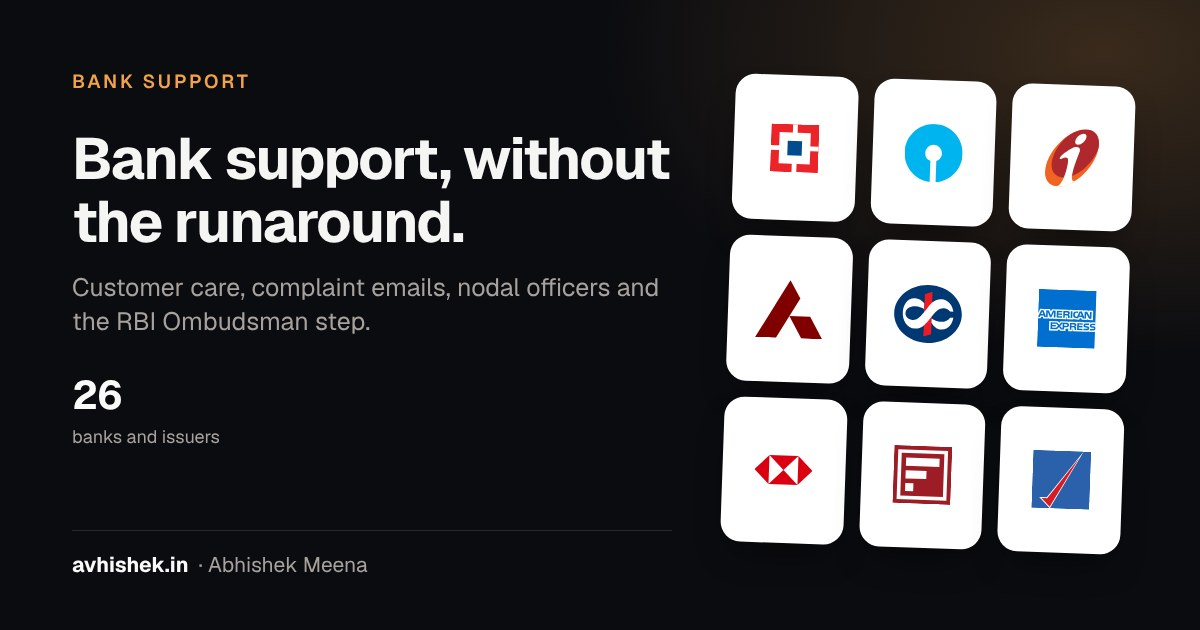
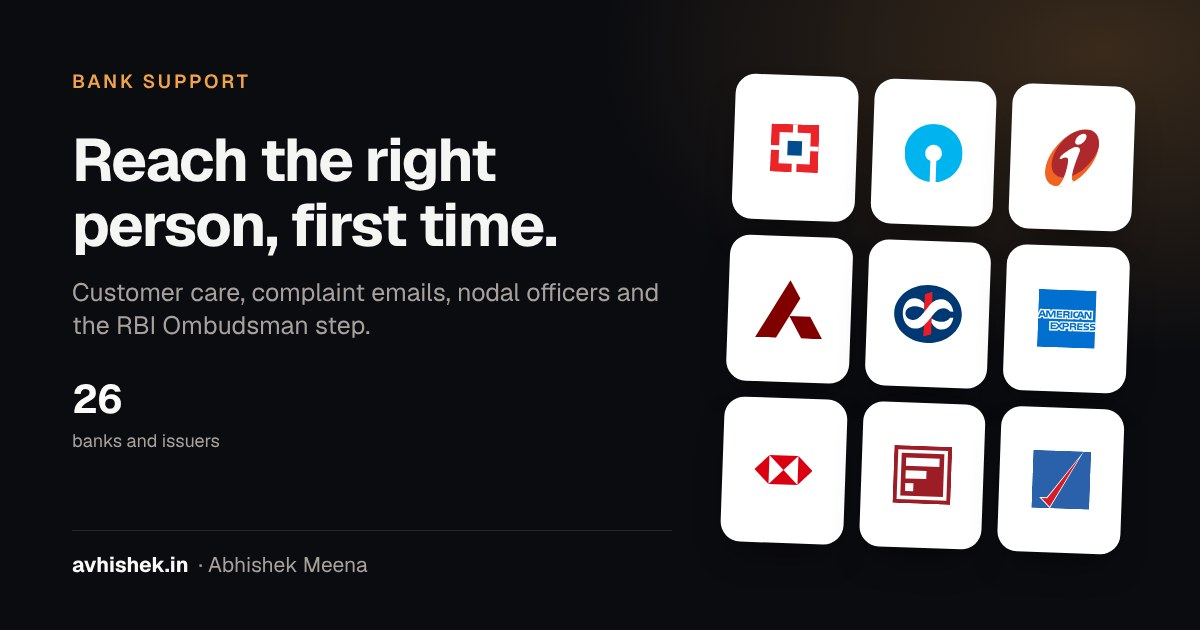
Bank support: new headline "Reach the right person, first time." (#168)
* Bank support: new headline "Reach the right person, first time."

Hero h1 and the link-preview image; preview image cache version bumped.

Claude-Session: https://claude.ai/code/session_01Sx266Y4c6DnSBbsBUthLvr

* Bank support: smaller date pill on phones

Shorter text ("Checked on 12 Nov 2026") and smaller size at <=640px.

Claude-Session: https://claude.ai/code/session_01Sx266Y4c6DnSBbsBUthLvr

---------

Changed region(s): [[0.0617, 0.2111, 0.555, 0.5429], [0.0617, 0.6032, 0.185, 0.7238]]

diff --git a/support.html b/support.html
@@ -18,7 +18,7 @@
   <meta property="og:title" content="Credit Card Customer Care &amp; Escalation Directory — 26 Indian Banks | Abhishek">
   <meta property="og:description" content="Customer care numbers and complaint emails for 26 Indian credit card issuers, with nodal and principal nodal officer contacts and the RBI Ombudsman step.">
   <meta property="og:url" content="https://avhishek.in/bank-support">
-  <meta property="og:image" content="https://avhishek.in/assets/og/bank-support.jpg?v=2">
+  <meta property="og:image" content="https://avhishek.in/assets/og/bank-support.jpg?v=3">
   <meta property="og:image:width" content="1200">
   <meta property="og:image:height" content="630">
   <meta property="og:image:alt" content="Bank support: customer care, complaint and nodal officer contacts for 26 Indian banks">
@@ -28,7 +28,7 @@
   <meta name="twitter:creator" content="@the_avhishek">
   <meta name="twitter:title" content="Credit Card Customer Care &amp; Escalation Directory — 26 Indian Banks | Abhishek">
   <meta name="twitter:description" content="Customer care numbers and complaint emails for 26 Indian credit card issuers, with nodal and principal nodal officer contacts and the RBI Ombudsman step.">
-  <meta name="twitter:image" content="https://avhishek.in/assets/og/bank-support.jpg?v=2">
+  <meta name="twitter:image" content="https://avhishek.in/assets/og/bank-support.jpg?v=3">
   <meta name="twitter:image:alt" content="Bank support: customer care, complaint and nodal officer contacts for 26 Indian banks">
   <script type="application/ld+json">
   {
@@ -115,7 +115,7 @@
   <link rel="stylesheet" href="assets/ui.css?v=1">
   <link rel="stylesheet" href="assets/backdrop.css?v=9">
   <link rel="stylesheet" href="assets/header.css?v=9">
-  <link rel="stylesheet" href="assets/support-page.css?v=6">
+  <link rel="stylesheet" href="assets/support-page.css?v=7">
   <link rel="stylesheet" href="assets/arc-tabs.css?v=5">
   <link rel="stylesheet" href="assets/polish.css?v=4">
   <link rel="stylesheet" href="assets/motion.css?v=5">
@@ -162,8 +162,8 @@
   <main id="support" class="sp" tabindex="-1">
     <section class="sp-hero" aria-labelledby="support-headline">
       <div class="sp-hero-copy">
-        <p class="sp-verified sp-date-pill"><span class="sp-date-pill-label">Updated</span><span class="sp-date-pill-text">Checked against bank websites on <time datetime="2026-11-12">12 Nov 2026</time></span></p>
-        <h1 id="support-headline" class="sp-title"><span class="sp-title-ink">Bank support,</span> <span class="sp-title-foil">without the runaround.</span></h1>
+        <p class="sp-verified sp-date-pill"><span class="sp-date-pill-label">Updated</span><span class="sp-date-pill-text">Checked<span class="sp-date-pill-long"> against bank websites</span> on <time datetime="2026-11-12">12 Nov 2026</time></span></p>
+        <h1 id="support-headline" class="sp-title"><span class="sp-title-ink">Reach the right person,</span> <span class="sp-title-foil">first time.</span></h1>
         <p class="sp-lead">Helplines and complaint emails for 26 credit card issuers in India, in the order you should use them.</p>
         <a class="sp-hero-link" href="#how-to-escalate">How escalation works
           <svg viewBox="0 0 24 24" width="16" height="16" aria-hidden="true" fill="none" stroke="currentColor" stroke-width="2" stroke-linecap="round" stroke-linejoin="round"><path d="M12 5v14M5 12l7 7 7-7"/></svg>

diff --git a/assets/support-page.css b/assets/support-page.css
@@ -581,7 +581,8 @@ html[data-theme="dark"] .sp-verified.sp-date-pill { --pill-bg: #111113; --pill-e
   .sp-verified.sp-date-pill { animation: sp-pill-spin 4s linear infinite; }
 }
 @media (max-width: 640px) {
-  .sp-verified.sp-date-pill { min-height: 32px; padding-right: 11px; font-size: 0.75rem; }
-  .sp-date-pill-label { margin-right: 8px; padding: 0 8px 0 11px; }
+  .sp-verified.sp-date-pill { min-height: 28px; margin-bottom: 14px !important; padding-right: 10px; font-size: 0.6875rem; }
+  .sp-date-pill-label { margin-right: 7px; padding: 0 7px 0 10px; }
+  .sp-date-pill-long { display: none; }
 }
 @keyframes sp-pill-spin { to { --sp-pill-a: 360deg; } }
